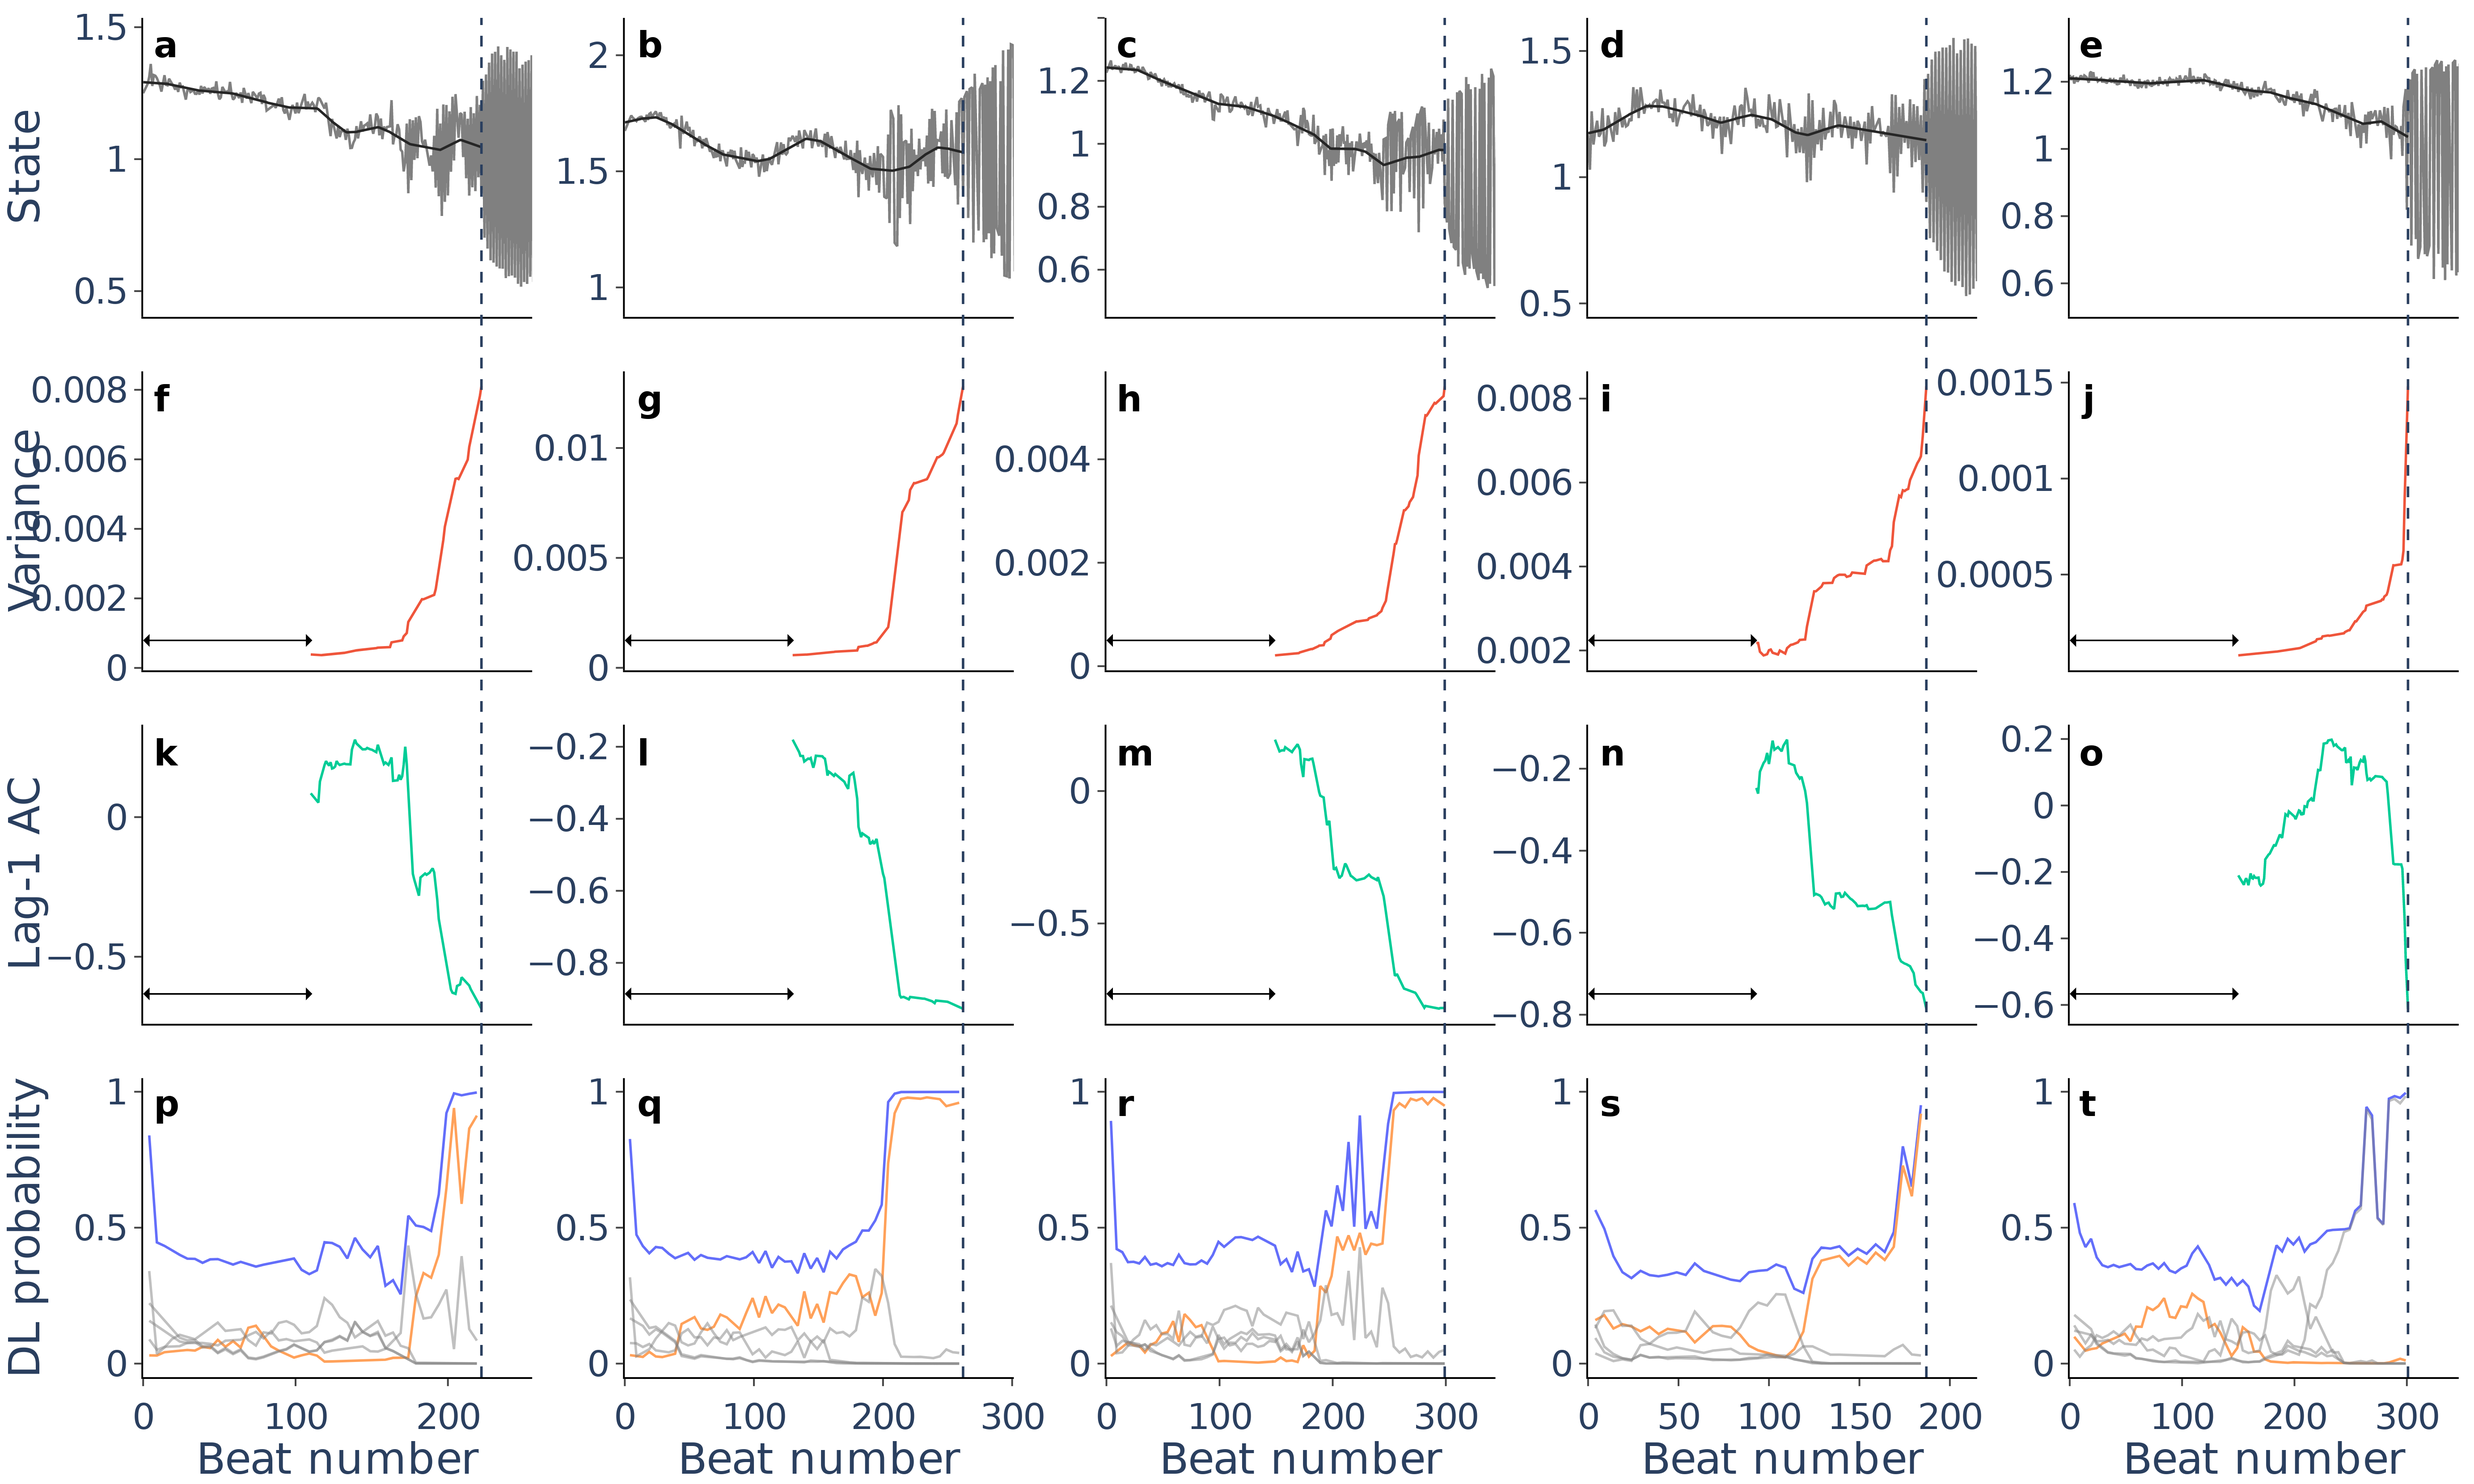
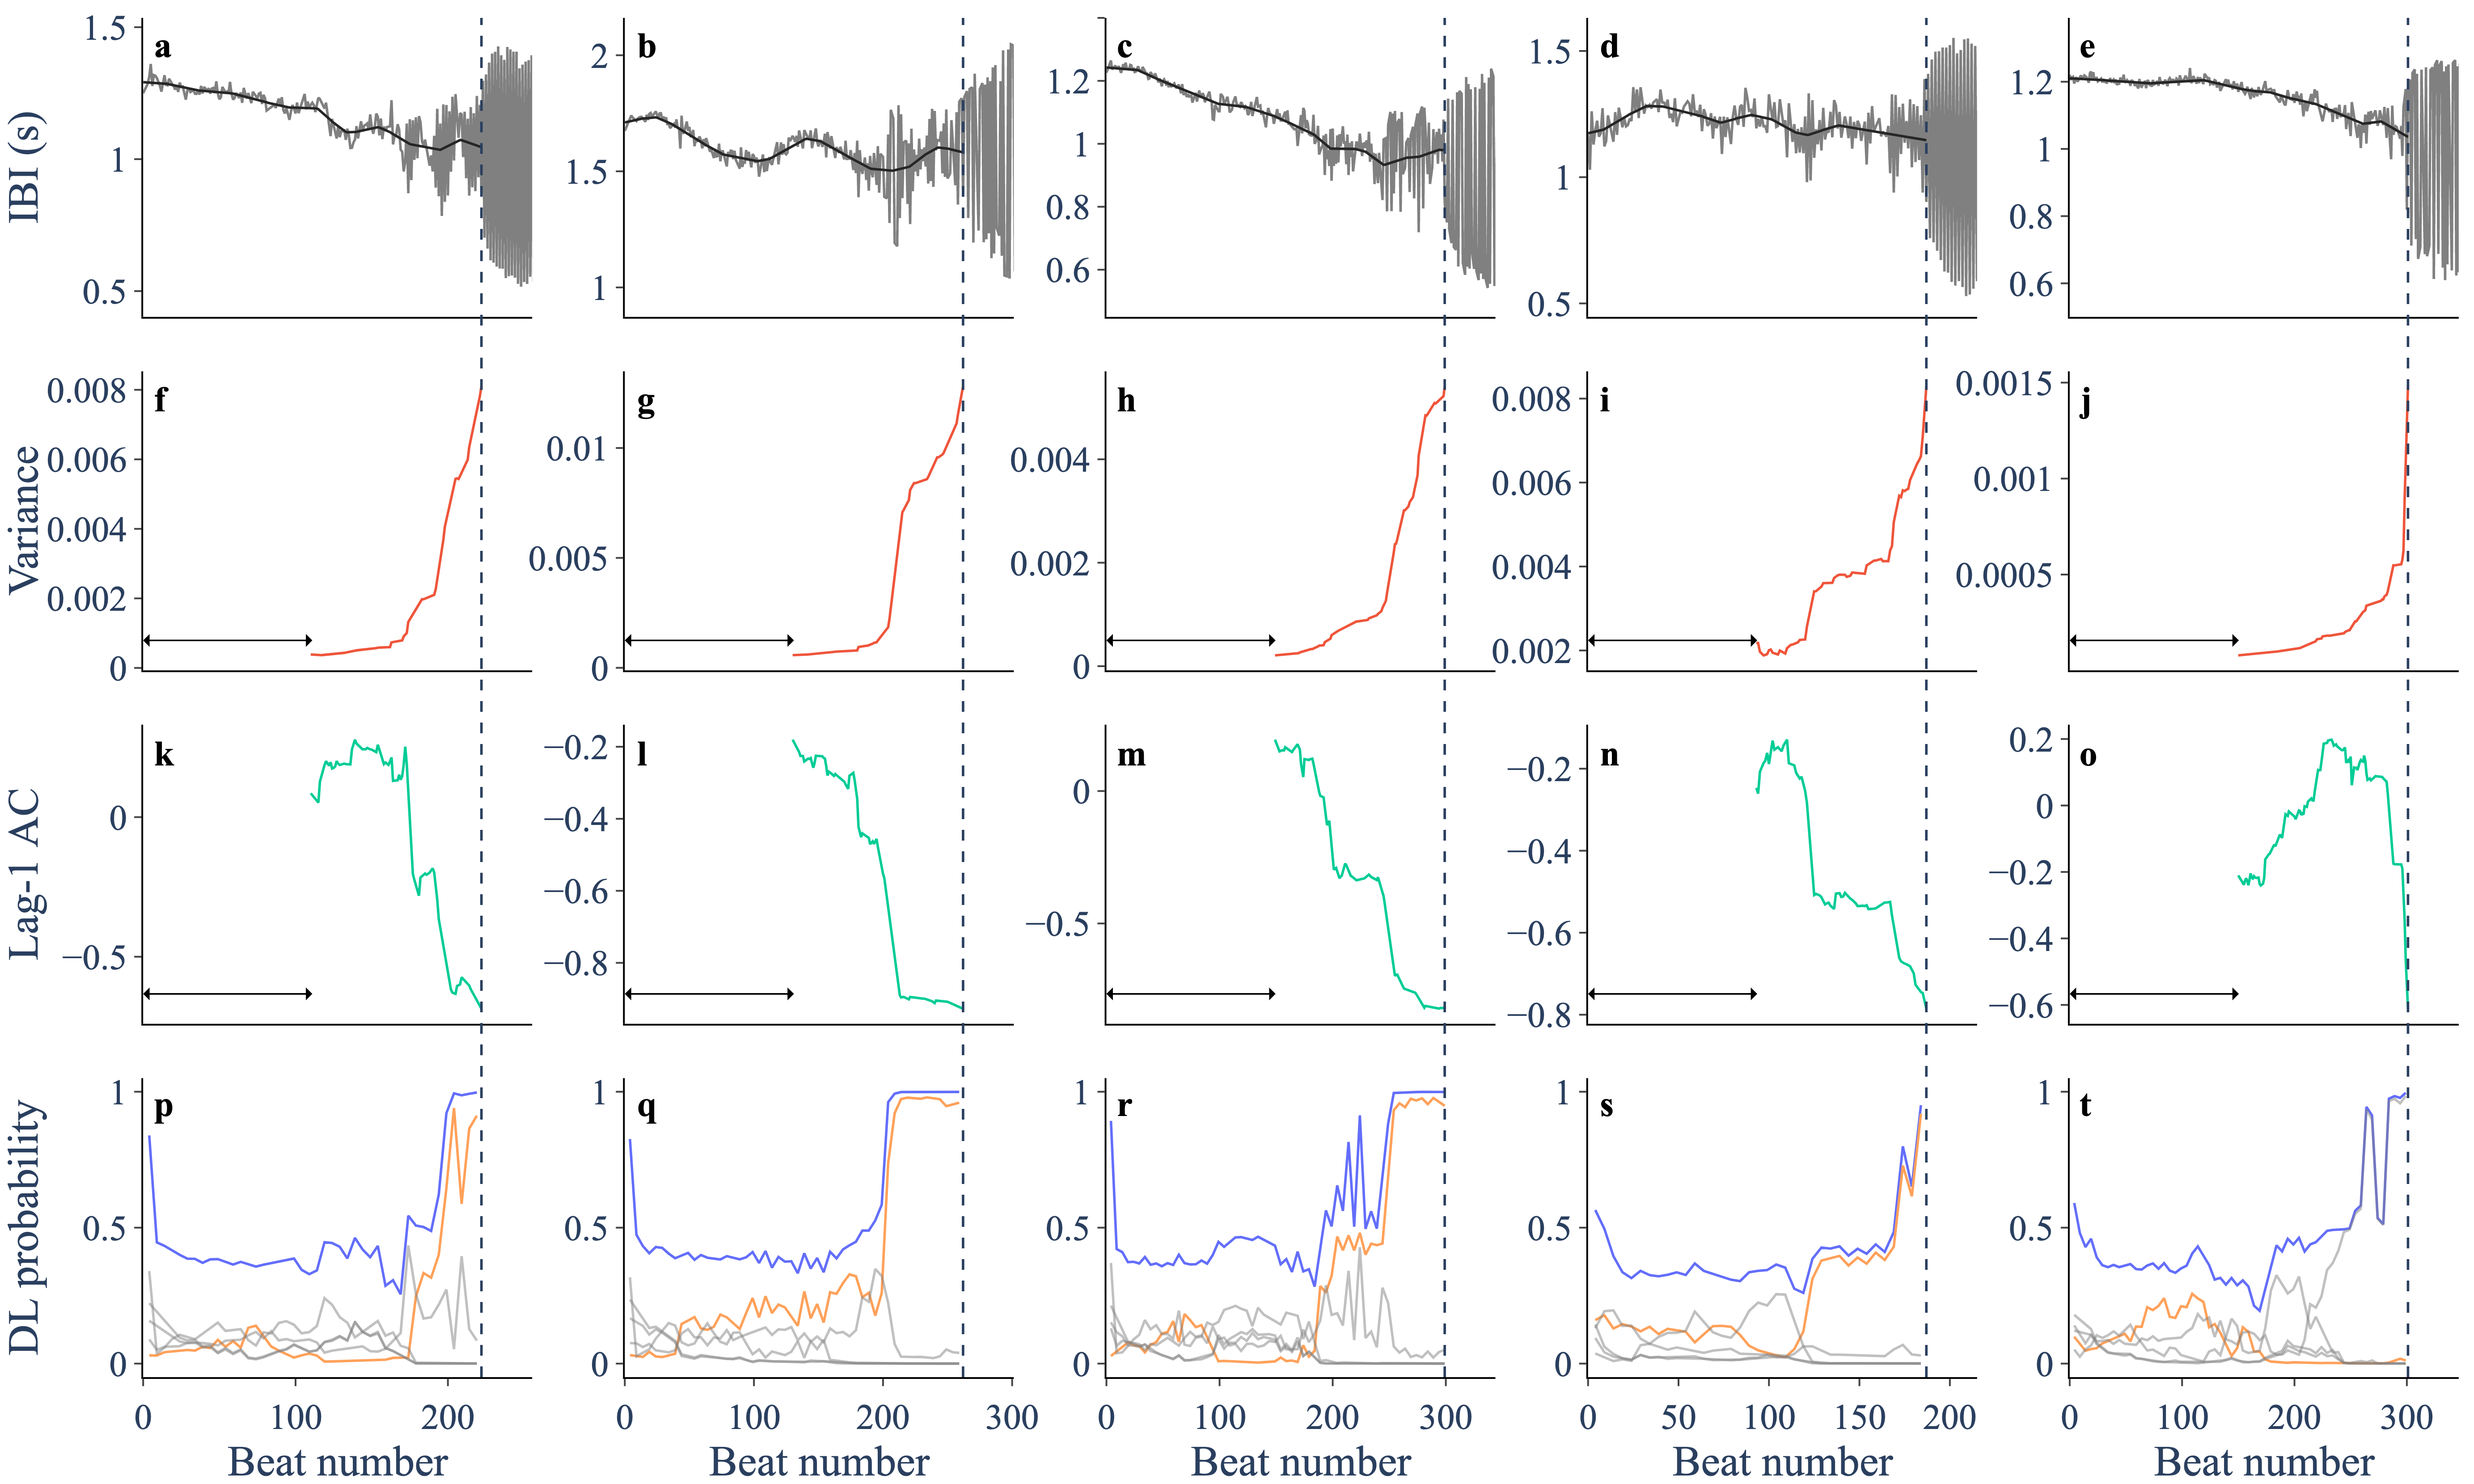
update y axis label to be more specific

diff --git a/code/figure_4/make_fig.py b/code/figure_4/make_fig.py
@@ -64,6 +64,8 @@ font_size_auc_text = 10
 # AUC annotations
 x_auc = 0.98
 y_auc = 0.6
+x_N = 0.18
+y_N = 0.05
 y_auc_sep = 0.065
 
 linewidth = 0.7
@@ -79,7 +81,7 @@ scale = 8 # default dpi=72 - nature=300-600
 
 
 
-def make_roc_figure(df_roc, letter_label, title=''):
+def make_roc_figure(df_roc, letter_label, title='', text_N=''):
     ''' Make ROC figure (no inset)'''
         
     fig = go.Figure()
@@ -206,7 +208,22 @@ def make_roc_figure(df_roc, letter_label, title=''):
                     color = 'black',
                     size = font_size_auc_text,
                     )
-            )    
+            )  
+    
+    
+    annotation_N = dict(
+            # x=sum(xrange)/2,
+            x=x_N,
+            y=y_N,
+            text=text_N,
+            xref='paper',
+            yref='paper',
+            showarrow=False,
+            font = dict(
+                    color = 'black',
+                    size = font_size_auc_text,
+                    )
+            )      
     title_annotation = dict(
             # x=sum(xrange)/2,
             x=0.5,
@@ -225,6 +242,7 @@ def make_roc_figure(df_roc, letter_label, title=''):
     list_annotations.append(annotation_auc_dl)
     list_annotations.append(annotation_auc_var)
     list_annotations.append(annotation_auc_ac)
+    list_annotations.append(annotation_N)
     # list_annotations.append(title_annotation)
 
     fig['layout'].update(annotations=list_annotations)
@@ -384,7 +402,7 @@ def combine_roc_inset(path_roc, path_inset, path_out):
 df_roc = pd.read_csv('../test_fox/output/df_roc.csv')
 df_dl_forced = pd.read_csv('../test_fox/output/df_dl_forced.csv')
 
-fig_roc = make_roc_figure(df_roc, 'a')
+fig_roc = make_roc_figure(df_roc, 'a', text_N='N={}'.format(len(df_dl_forced)*2))
 fig_roc.write_image('temp_roc.png', scale=scale)
 
 make_inset_boxplot(df_dl_forced, 'PD', 'temp_inset.png')
@@ -404,7 +422,7 @@ combine_roc_inset(path_roc, path_inset, path_out)
 df_roc = pd.read_csv('../test_westerhoff/output/df_roc.csv')
 df_dl_forced = pd.read_csv('../test_westerhoff/output/df_dl_forced.csv')
 
-fig_roc = make_roc_figure(df_roc, 'b')
+fig_roc = make_roc_figure(df_roc, 'b', text_N='N={}'.format(len(df_dl_forced)*2))
 fig_roc.write_image('temp_roc.png', scale=scale)
 
 make_inset_boxplot(df_dl_forced, 'NS', 'temp_inset.png')
@@ -424,7 +442,7 @@ combine_roc_inset(path_roc, path_inset, path_out)
 df_roc = pd.read_csv('../test_ricker/output/df_roc.csv')
 df_dl_forced = pd.read_csv('../test_ricker/output/df_dl_forced.csv')
 
-fig_roc = make_roc_figure(df_roc, 'c')
+fig_roc = make_roc_figure(df_roc, 'c', text_N='N={}'.format(len(df_dl_forced)*2))
 
 # Add text to indicate which ROC curve belongs to each EWS
 fig_roc.add_annotation(x=0.15, y=0.92,
@@ -473,7 +491,7 @@ df_roc = pd.read_csv('../test_kot/output/df_roc.csv')
 df_dl_forced = pd.read_csv('../test_kot/output/df_dl_forced.csv')
 
 
-fig_roc = make_roc_figure(df_roc, 'd')
+fig_roc = make_roc_figure(df_roc, 'd', text_N='N={}'.format(len(df_dl_forced)*2))
 fig_roc.write_image('temp_roc.png', scale=scale)
 
 make_inset_boxplot(df_dl_forced, 'TC', 'temp_inset.png')
@@ -495,7 +513,7 @@ df_roc = pd.read_csv('../test_lorenz/output/df_roc.csv')
 df_dl_forced = pd.read_csv('../test_lorenz/output/df_dl_forced.csv')
 
 
-fig_roc = make_roc_figure(df_roc, 'e')
+fig_roc = make_roc_figure(df_roc, 'e', text_N='N={}'.format(len(df_dl_forced)*2))
 fig_roc.write_image('temp_roc.png', scale=scale)
 
 make_inset_boxplot(df_dl_forced, 'PF', 'temp_inset.png')
@@ -515,7 +533,7 @@ combine_roc_inset(path_roc, path_inset, path_out)
 df_roc = pd.read_csv('../test_chick_heart/output/df_roc.csv')
 df_dl_forced = pd.read_csv('../test_chick_heart/output/df_dl_pd_fixed.csv')
 
-fig_roc = make_roc_figure(df_roc, 'f')
+fig_roc = make_roc_figure(df_roc, 'f', text_N='N={}'.format(len(df_dl_forced)*2))
 fig_roc.write_image('temp_roc.png', scale=scale)
 
 make_inset_boxplot(df_dl_forced, 'PD', 'temp_inset.png')

diff --git a/code/figure_3/make_fig.py b/code/figure_3/make_fig.py
@@ -389,7 +389,7 @@ fig.update_xaxes(title='Beat number',
 #                  )
 
 # Specific y axes properties
-fig.update_yaxes(title='State',
+fig.update_yaxes(title='IBI (s)',
                   row=1,col=1)
 
 fig.update_yaxes(title='Lag-1 AC',
